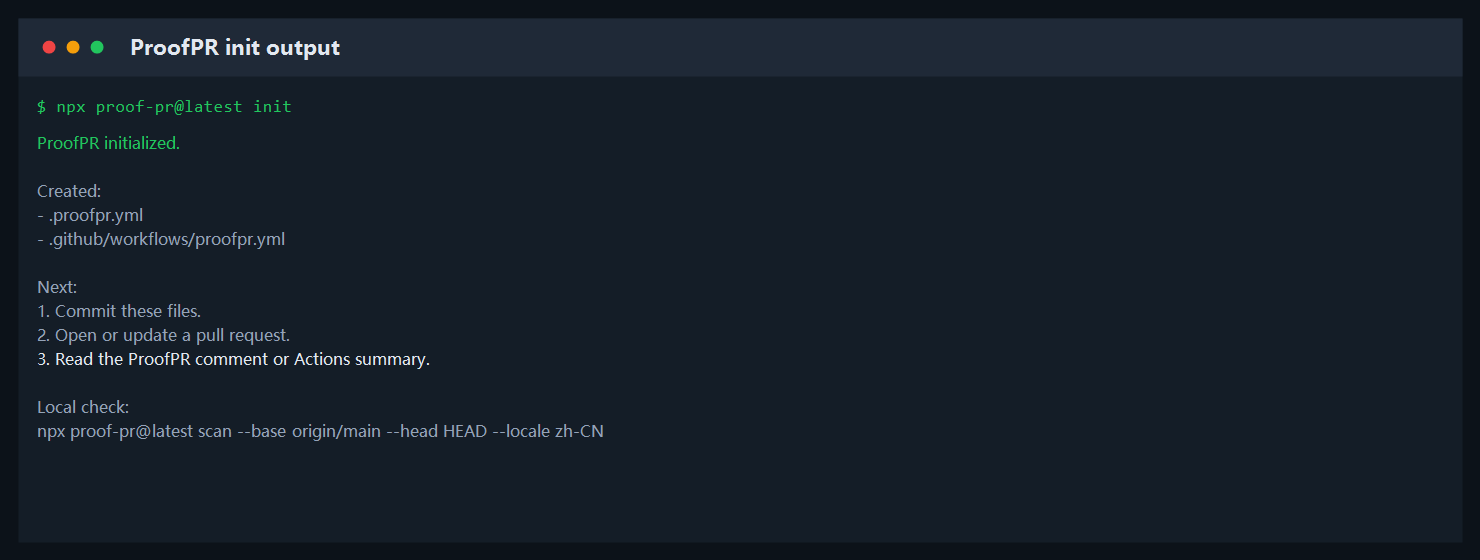
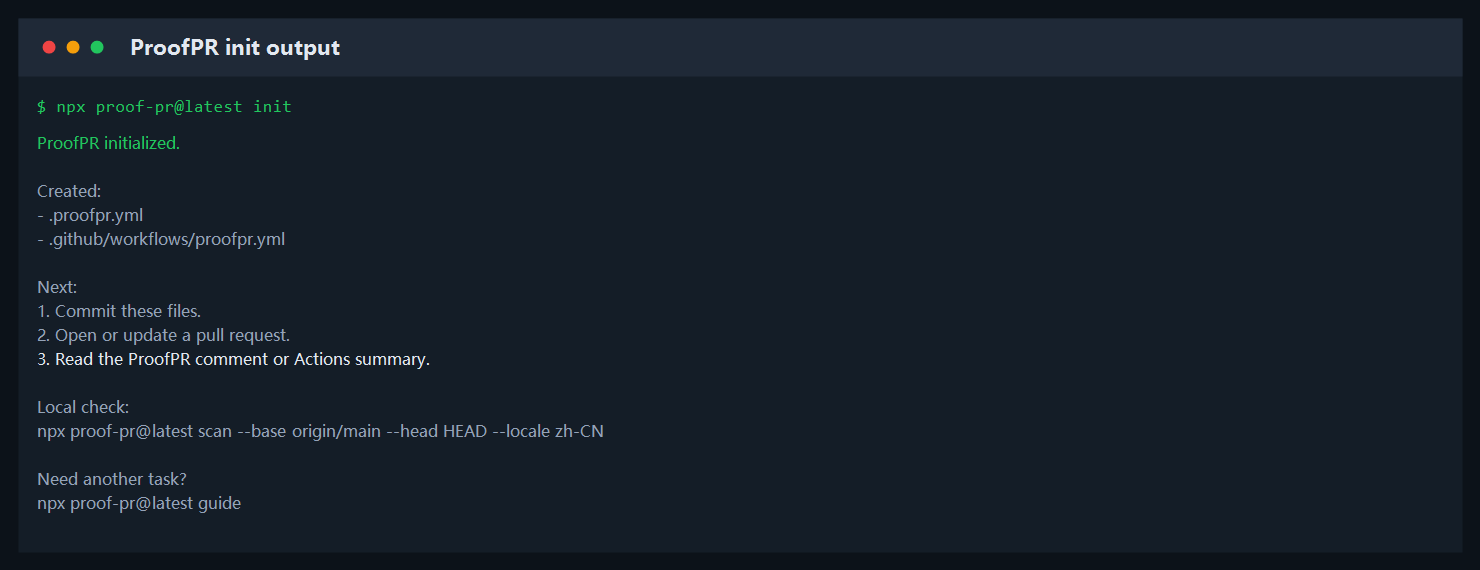
feat: simplify command discovery

diff --git a/packages/cli/src/index.ts b/packages/cli/src/index.ts
@@ -115,7 +115,14 @@ const program = new Command();
 program
   .name("proof-pr")
   .description("Review pull request evidence, scope, and safety before maintainers spend time on it.")
-  .version("0.1.11");
+  .version("0.1.12");
+
+program
+  .command("guide")
+  .description("Show a copy-paste friendly guide for common ProofPR tasks.")
+  .action(() => {
+    process.stdout.write(renderGuide());
+  });
 
 program
   .command("scan", { isDefault: true })
@@ -179,7 +186,7 @@ program
     await writeIfMissing(options.configPath, renderConfigTemplate(options.preset), options.force);
     await writeIfMissing(options.workflowPath, renderWorkflowTemplate(options.failOn), options.force);
     process.stdout.write(
-      `ProofPR initialized.\n\nCreated:\n- ${options.configPath}\n- ${options.workflowPath}\n\nNext:\n1. Commit these files.\n2. Open or update a pull request.\n3. Read the ProofPR comment or Actions summary.\n\nLocal check:\nnpx proof-pr@latest scan --base origin/main --head HEAD --locale zh-CN\n`
+      `ProofPR initialized.\n\nCreated:\n- ${options.configPath}\n- ${options.workflowPath}\n\nNext:\n1. Commit these files.\n2. Open or update a pull request.\n3. Read the ProofPR comment or Actions summary.\n\nLocal check:\nnpx proof-pr@latest scan --base origin/main --head HEAD --locale zh-CN\n\nNeed another task?\nnpx proof-pr@latest guide\n`
     );
   });
 
@@ -213,11 +220,55 @@ program
     }
   });
 
-program.parseAsync(process.argv).catch((error: unknown) => {
+const args = process.argv.slice(2);
+const parseTask =
+  args.length === 0
+    ? Promise.resolve(process.stdout.write(renderGuide()))
+    : program.parseAsync(process.argv);
+
+parseTask.catch((error: unknown) => {
   const message = error instanceof Error ? error.message : String(error);
   process.stderr.write(`ProofPR failed: ${message}\n`);
   process.exitCode = 1;
 });
+
+function renderGuide(): string {
+  return `ProofPR 功能菜单
+
+最推荐先做第 1 步。已经接入过的项目，按目标复制下面的命令即可。
+
+1. 接入 GitHub PR 自动检查
+   npx proof-pr@latest init
+   然后提交 .proofpr.yml 和 .github/workflows/proofpr.yml，打开 PR 后看评论和 Actions summary。
+
+2. 本地检查当前分支
+   npx proof-pr@latest scan --base origin/main --head HEAD --locale zh-CN
+   适合在发 PR 前先看风险、证据评分和 Review 行动清单。
+
+3. 生成可分享 HTML 报告
+   npx proof-pr@latest scan --base origin/main --head HEAD --locale zh-CN --format html --output proofpr-report.html
+   生成后用浏览器打开 proofpr-report.html。
+
+4. 生成 GitHub Code Scanning 的 SARIF
+   npx proof-pr@latest scan --base origin/main --head HEAD --format sarif --output proofpr.sarif
+   适合在 CI 里配合 github/codeql-action/upload-sarif 使用。
+
+5. 试跑内置风险案例
+   npx proof-pr@latest scan --diff-file examples/cases/workflow-untrusted-checkout.diff --locale zh-CN
+   不需要改项目代码，也能快速看到 ProofPR 会抓什么风险。
+
+6. 验证规则样本是否仍然命中
+   npx proof-pr@latest benchmark --cases benchmarks/cases
+   适合维护 ProofPR 规则或发版前回归。
+
+7. 调整审查强度
+   打开 .proofpr.yml，把 preset 改成 security-strict、dependency-careful 或 mcp-security。
+
+结果在哪里看：
+- GitHub Action：PR Conversation 评论、Actions summary、Checks 状态。
+- 本地 CLI：终端输出；如果用了 --output，就看写出的 HTML / JSON / SARIF / Markdown 文件。
+`;
+}
 
 async function readGitDiff(base: string | undefined, head: string): Promise<string> {
   const args = ["diff", "--no-ext-diff", "--unified=0"];
@@ -289,7 +340,7 @@ jobs:
     runs-on: ubuntu-latest
     steps:
       - uses: actions/checkout@v4
-      - uses: linsk27/proof-pr@v0.1.11
+      - uses: linsk27/proof-pr@v0.1.12
         with:
           fail-on: ${failOn}
           comment: "true"

diff --git a/docs/commands.md b/docs/commands.md
@@ -1,0 +1,124 @@
+# 功能和命令速查
+
+如果不知道该用哪个功能，先运行：
+
+```bash
+npx proof-pr@latest
+```
+
+或显式打开功能菜单：
+
+```bash
+npx proof-pr@latest guide
+```
+
+![ProofPR 中文功能菜单](screenshots/proofpr-guide-output.png)
+
+## 最常用路径
+
+| 你想做什么 | 什么时候用 | 复制这条命令 | 结果在哪里看 |
+| --- | --- | --- | --- |
+| 接入 GitHub PR 自动检查 | 第一次给仓库安装 ProofPR | `npx proof-pr@latest init` | PR 评论、Actions summary、Checks |
+| 本地检查当前分支 | 发 PR 前自查 | `npx proof-pr@latest scan --base origin/main --head HEAD --locale zh-CN` | 当前终端 |
+| 生成 HTML 可视化报告 | 想把报告保存、发给别人或上传 artifact | `npx proof-pr@latest scan --base origin/main --head HEAD --locale zh-CN --format html --output proofpr-report.html` | `proofpr-report.html` |
+| 生成 SARIF | 想接入 GitHub Code Scanning | `npx proof-pr@latest scan --base origin/main --head HEAD --format sarif --output proofpr.sarif` | `proofpr.sarif` / Code Scanning |
+| 跑内置风险案例 | 想快速理解它会抓什么 | `npx proof-pr@latest scan --diff-file examples/cases/workflow-untrusted-checkout.diff --locale zh-CN` | 当前终端 |
+| 跑 benchmark | 维护规则或发版前回归 | `npx proof-pr@latest benchmark --cases benchmarks/cases` | 当前终端 |
+| 调整审查强度 | 想更严格检查安全、依赖或 MCP | 修改 `.proofpr.yml` 里的 `preset` | 下一次扫描报告 |
+
+## 1. 接入 GitHub PR 自动检查
+
+执行：
+
+```bash
+npx proof-pr@latest init
+```
+
+它会生成：
+
+- `.proofpr.yml`
+- `.github/workflows/proofpr.yml`
+
+提交这两个文件后，打开或更新 Pull Request，ProofPR 会自动运行。默认触发时机是：
+
+- PR opened：第一次打开 PR。
+- PR synchronize：PR 分支继续 push。
+- PR reopened：关闭后重新打开。
+
+## 2. 本地扫描当前分支
+
+执行：
+
+```bash
+npx proof-pr@latest scan --base origin/main --head HEAD --locale zh-CN
+```
+
+适合在发 PR 前自查。它会对比 `origin/main...HEAD`，输出风险等级、证据评分、Review 门禁和行动清单。
+
+如果你的主分支叫 `master`，把 `origin/main` 换成 `origin/master`。
+
+## 3. 生成 HTML 可视化报告
+
+执行：
+
+```bash
+npx proof-pr@latest scan --base origin/main --head HEAD --locale zh-CN --format html --output proofpr-report.html
+```
+
+生成后，用浏览器打开 `proofpr-report.html`。这个文件适合：
+
+- 发给同事快速看风险。
+- 放进 CI artifact。
+- 截图放进文档或 issue。
+
+## 4. 生成 SARIF
+
+执行：
+
+```bash
+npx proof-pr@latest scan --base origin/main --head HEAD --format sarif --output proofpr.sarif
+```
+
+SARIF 主要给 GitHub Code Scanning 或其他安全平台读取。完整接入方式见 [SARIF / Code Scanning](sarif-code-scanning.md)。
+
+## 5. 跑内置风险案例
+
+执行：
+
+```bash
+npx proof-pr@latest scan --diff-file examples/cases/workflow-untrusted-checkout.diff --locale zh-CN
+```
+
+这个命令不需要修改你的项目，只是读取仓库里的示例 diff，适合快速理解 ProofPR 会如何判断 workflow、依赖、secret、测试证据这些风险。
+
+## 6. 跑 benchmark
+
+执行：
+
+```bash
+npx proof-pr@latest benchmark --cases benchmarks/cases
+```
+
+benchmark 用来验证规则样本是否仍按预期命中。普通使用者不必每天跑它；维护 ProofPR 规则、准备发版或怀疑规则退化时再跑。
+
+## 7. 调整审查强度
+
+打开 `.proofpr.yml`，修改 `preset`：
+
+```yaml
+locale: zh-CN
+preset: open-source-maintainer
+
+comment:
+  enabled: true
+```
+
+常用值：
+
+| preset | 适合场景 |
+| --- | --- |
+| `open-source-maintainer` | 开源仓库默认推荐 |
+| `security-strict` | 安全敏感项目 |
+| `dependency-careful` | 特别关注依赖和 lockfile |
+| `mcp-security` | 特别关注 MCP / agent 配置 |
+| `ai-generated-pr` | AI 生成 PR 较多的仓库 |

diff --git a/docs/README.md b/docs/README.md
@@ -5,17 +5,18 @@
 ## 推荐阅读顺序
 
 1. [快速开始](getting-started.md)
-2. [从 0 到 1 安装和验证](zero-to-one.md)
-3. [配置说明](configuration.md)
-4. [规则说明](rules.md)
-5. [Benchmark 和准确性边界](../benchmarks/README.md) / [当前报告](../benchmarks/report.md)
-6. [真实案例库](cases.md)
-7. [实现原理](how-it-works.md)
+2. [功能和命令速查](commands.md)
+3. [从 0 到 1 安装和验证](zero-to-one.md)
+4. [配置说明](configuration.md)
+5. [规则说明](rules.md)
+6. [Benchmark 和准确性边界](../benchmarks/README.md) / [当前报告](../benchmarks/report.md)
+7. [真实案例库](cases.md)
+8. [实现原理](how-it-works.md)
 
 ## 当前发布
 
-- GitHub Release：[`v0.1.11`](https://github.com/linsk27/proof-pr/releases/tag/v0.1.11)
-- npm：[`proof-pr@0.1.11`](https://www.npmjs.com/package/proof-pr)
+- GitHub Release：[`v0.1.12`](https://github.com/linsk27/proof-pr/releases/tag/v0.1.12)
+- npm：[`proof-pr@0.1.12`](https://www.npmjs.com/package/proof-pr)
 - 核心能力：Review Plan、规则预设、Evidence Contract、GitHub annotations、SARIF、benchmark、真实案例库、依赖大版本升级检查、包生命周期脚本检查、`pull_request_target` / PR head checkout 检查、独立 HTML 可视化报告、Marketplace 准备材料。
 
 确认本机拿到的 latest：
@@ -25,11 +26,21 @@ npm view proof-pr version
 npx proof-pr@latest --version
 ```
 
-当前都应输出 `0.1.11`。
+当前都应输出 `0.1.12`。
+
+不知道用哪个功能时：
+
+```bash
+npx proof-pr@latest
+# 或
+npx proof-pr@latest guide
+```
 
 ## 图示和截图
 
 真实运行截图：
+
+![ProofPR 中文功能菜单](screenshots/proofpr-guide-output.png)
 
 ![ProofPR 初始化输出](screenshots/proofpr-init-output.png)
 

diff --git a/docs/getting-started.md b/docs/getting-started.md
@@ -25,6 +25,18 @@ npx proof-pr@latest init
 
 把这两个文件提交到仓库，打开或更新 PR，就会自动生成报告。
 
+如果你不确定下一步该用哪个功能，可以直接看中文功能菜单：
+
+```bash
+npx proof-pr@latest
+# 或
+npx proof-pr@latest guide
+```
+
+![ProofPR 中文功能菜单](screenshots/proofpr-guide-output.png)
+
+更完整的复制式命令表见 [功能和命令速查](commands.md)。
+
 ## 生成的 workflow
 
 ```yaml
@@ -43,7 +55,7 @@ jobs:
     runs-on: ubuntu-latest
     steps:
       - uses: actions/checkout@v4
-      - uses: linsk27/proof-pr@v0.1.11
+      - uses: linsk27/proof-pr@v0.1.12
         with:
           fail-on: high
           comment: "true"
@@ -96,11 +108,12 @@ comment:
 
 ```bash
 npx proof-pr@latest --version
+npx proof-pr@latest guide
 npx proof-pr@latest init
 npx proof-pr@latest scan --base origin/main --head HEAD --locale zh-CN
 ```
 
-如果第一行输出 `0.1.11`，说明你正在使用当前最新发布版。
+如果第一行输出 `0.1.12`，说明你正在使用当前最新发布版。
 
 也可以全局安装：
 
@@ -120,6 +133,12 @@ node packages/cli/dist/index.js scan --base origin/main --head HEAD --locale zh-
 ```
 
 ## 常用命令
+
+查看功能菜单：
+
+```bash
+proof-pr guide
+```
 
 初始化配置和 workflow：
 

diff --git a/docs/zero-to-one.md b/docs/zero-to-one.md
@@ -32,6 +32,14 @@ npx proof-pr@latest init
 
 默认配置已经会输出中文报告，并使用开源维护者预设。
 
+如果你中途忘了某个功能怎么用，运行：
+
+```bash
+npx proof-pr@latest guide
+```
+
+它会按“接入自动检查、本地扫描、HTML 报告、SARIF、benchmark”等目标列出命令。
+
 ## 第 2 步：提交两个文件
 
 ```bash
@@ -115,7 +123,7 @@ npx proof-pr@latest --version
 npx proof-pr@latest scan --base origin/main --head HEAD --locale zh-CN
 ```
 
-第一行当前应输出 `0.1.11`，用于确认 npm latest 已经安装正确。
+第一行当前应输出 `0.1.12`，用于确认 npm latest 已经安装正确。
 
 扫描内置案例：
 
@@ -165,7 +173,7 @@ permissions:
 
 steps:
   - uses: actions/checkout@v4
-  - uses: linsk27/proof-pr@v0.1.11
+  - uses: linsk27/proof-pr@v0.1.12
     with:
       fail-on: high
       comment: "true"

diff --git a/docs/roadmap.md b/docs/roadmap.md
@@ -26,7 +26,7 @@ ProofPR 的长期定位不是“又一个代码扫描器”，而是 **AI 时代
    代码侧材料已准备好，下一步需要仓库所有者在 GitHub 网页上确认发布。
 
 2. 真实截图刷新
-   用 `v0.1.11` 的 annotations / SARIF 能力重新跑一个 demo PR，补充新版效果图。
+   用 `v0.1.12` 的 annotations / SARIF 能力重新跑一个 demo PR，补充新版效果图。
 
 3. 真实项目样例扩展
    继续补充 React、Python、Go、Rust 等不同生态的真实 diff 示例，让用户能更快理解规则价值。

diff --git a/CHANGELOG.md b/CHANGELOG.md
@@ -4,6 +4,11 @@
 
 暂无。
 
+## 0.1.12 - 2026-05-12
+
+- 新增 `guide` 功能菜单；直接运行 `proof-pr` 或 `proof-pr guide` 会按“我想做什么”列出常用命令和结果位置。
+- README 和中文文档新增“功能和命令速查”，补充真实功能菜单截图，降低首次使用成本。
+
 ## 0.1.11 - 2026-05-12
 
 - CLI `scan` 新增 `--output <path>`，可以直接把 Markdown、JSON、SARIF 或 HTML 报告写入文件。

diff --git a/docs/sarif-code-scanning.md b/docs/sarif-code-scanning.md
@@ -59,7 +59,7 @@ jobs:
     runs-on: ubuntu-latest
     steps:
       - uses: actions/checkout@v4
-      - uses: linsk27/proof-pr@v0.1.11
+      - uses: linsk27/proof-pr@v0.1.12
         with:
           fail-on: high
           comment: "true"
